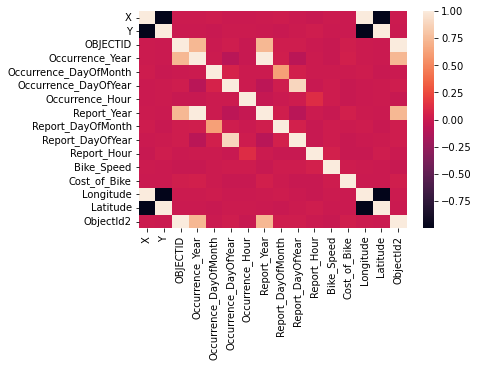
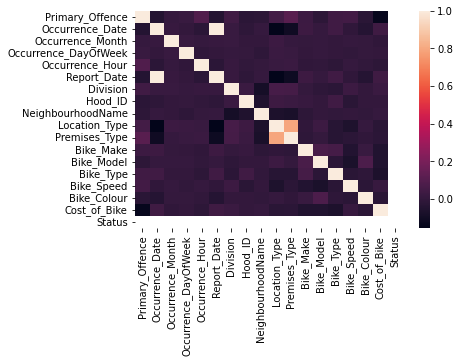
Label Encoding twice?

diff --git a/Group7-Project2.py b/Group7-Project2.py
@@ -129,6 +129,30 @@ data_bicycle_thefts['Status'] = [1 if status=='RECOVERED' else 0 for status in d
 # Checking if any null values exist in the cleaned data
 print("Total Number of missing values: ", data_bicycle_thefts.isna().sum().sum())
 
+# Store categorical values (column names) in an array
+categorical_values = []
+for col, col_type in data_bicycle_thefts.dtypes.iteritems():
+    if col_type == 'O':
+        categorical_values.append(col)
+print(categorical_values)
+
+# Use Label Encoder to convert categorical values to numeric
+# Import label encoder 
+from sklearn import preprocessing
+# for each categorical column convert values to numeric
+label_encoder = preprocessing.LabelEncoder()
+
+mapping_dict = {}
+for col in categorical_values:
+    data_bicycle_thefts[col] = label_encoder.fit_transform(data_bicycle_thefts[col])
+ 
+    le_name_mapping = dict(zip(label_encoder.classes_,
+                               label_encoder.transform(label_encoder.classes_)))
+ 
+    mapping_dict[col] = le_name_mapping
+print(mapping_dict)
+
+
 #Generate dataframe with correlation coefficients between columns
 df_correlation = data_bicycle_thefts.corr()
 print(df_correlation)
